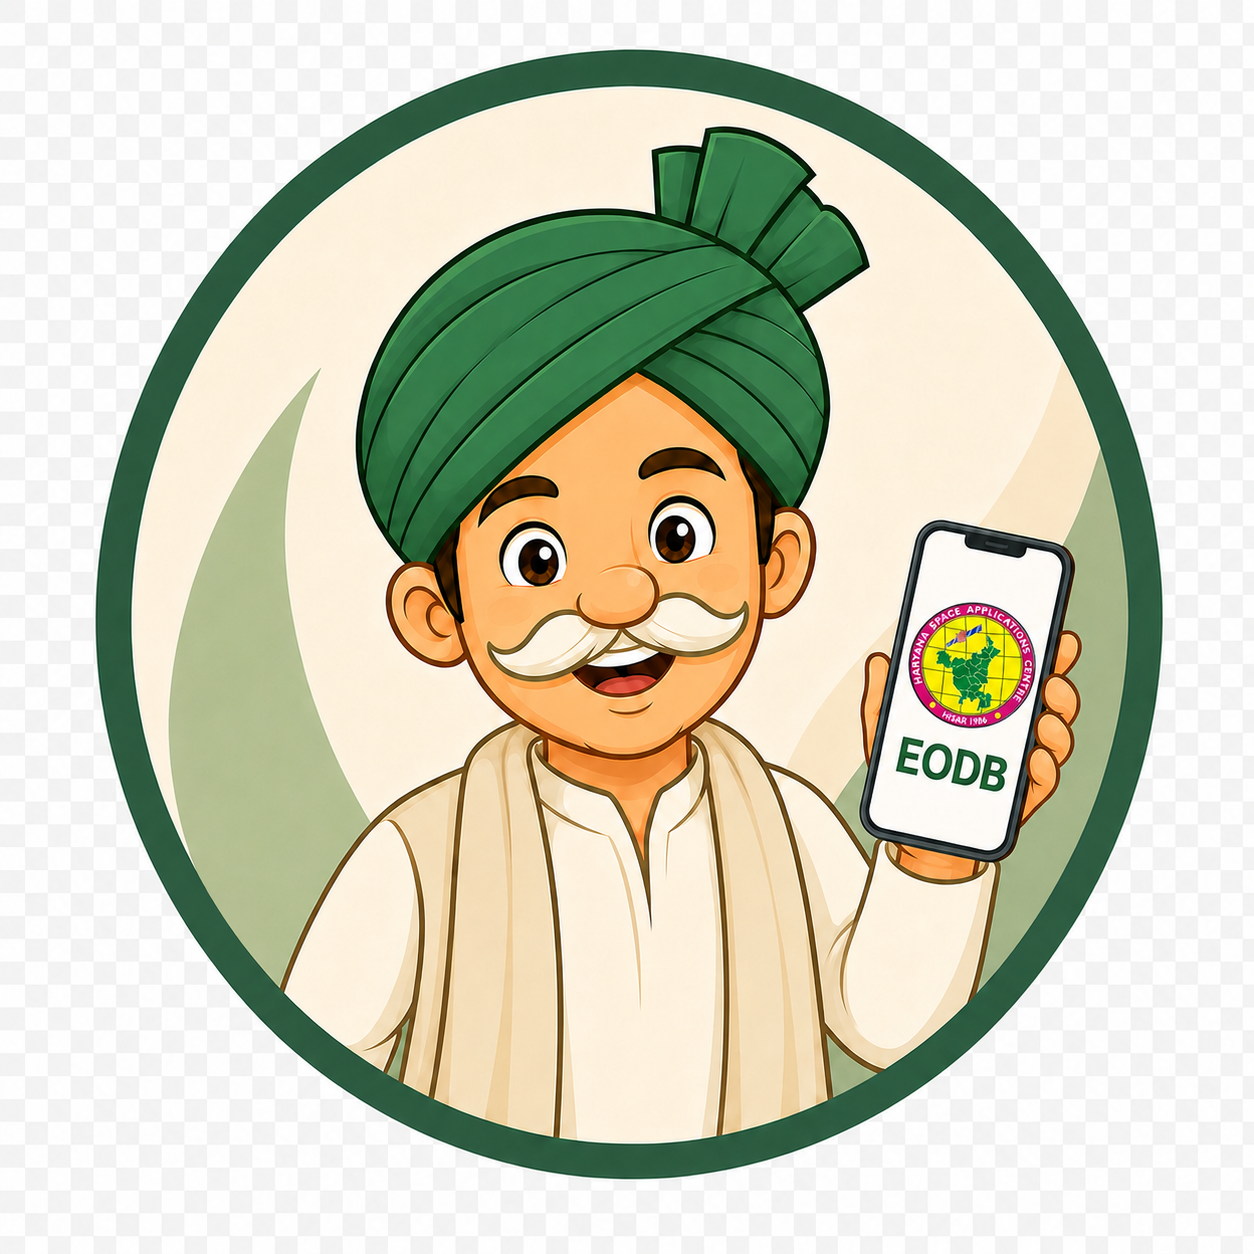
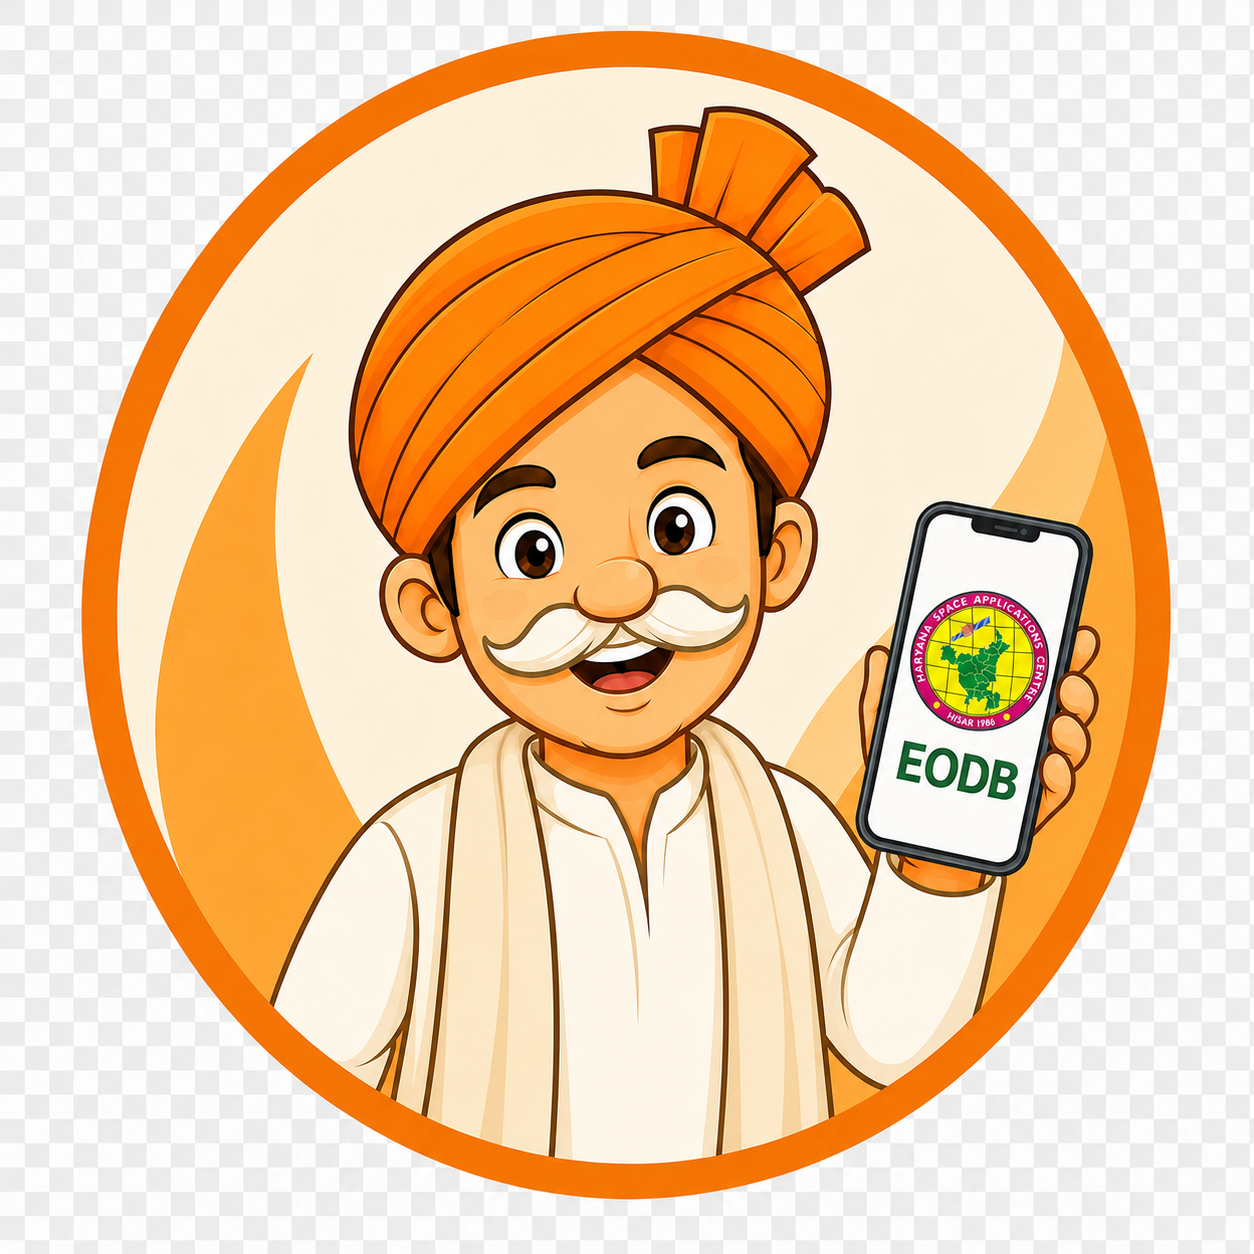
upload

diff --git a/src/main.jsx b/src/main.jsx
@@ -73,10 +73,10 @@ ReactDOM.createRoot(document.getElementById("root")).render(
         <Routes>
           <Route path="/login" element={<Login />} />
           <Route path="/" element={<Navigate to="/login" replace />} />
-          {/* <Route path="/map" element={<App/>} /> */}
-            <Route path="/map" element={<ProtectedRoute><App /></ProtectedRoute>} />
-          {/* <Route path="/admin" element={<AdminDashboard />} /> */}
-          <Route path="/admin" element={<ProtectedRoute requireAdmin><AdminDashboard /></ProtectedRoute>} />
+          <Route path="/map" element={<App/>} />
+            {/* <Route path="/map" element={<ProtectedRoute><App /></ProtectedRoute>} /> */}
+          <Route path="/admin" element={<AdminDashboard />} />
+          {/* <Route path="/admin" element={<ProtectedRoute requireAdmin><AdminDashboard /></ProtectedRoute>} /> */}
           {/* Catch-all: redirect unknown paths to login */}
           <Route path="*" element={<Navigate to="/login" replace />} />
         </Routes>

diff --git a/src/components/MapStage.css b/src/components/MapStage.css
@@ -1071,6 +1071,7 @@
   body.print-parcel-view .parcel-table-panel__print,
   body.print-parcel-view .parcel-table-panel__close,
   body.print-parcel-view .parcel-table-panel__status,
+  body.print-parcel-view .saarthi-chatbot-widget,
   body.print-parcel-view .sf-fetching-badge {
     display: none !important;
   }